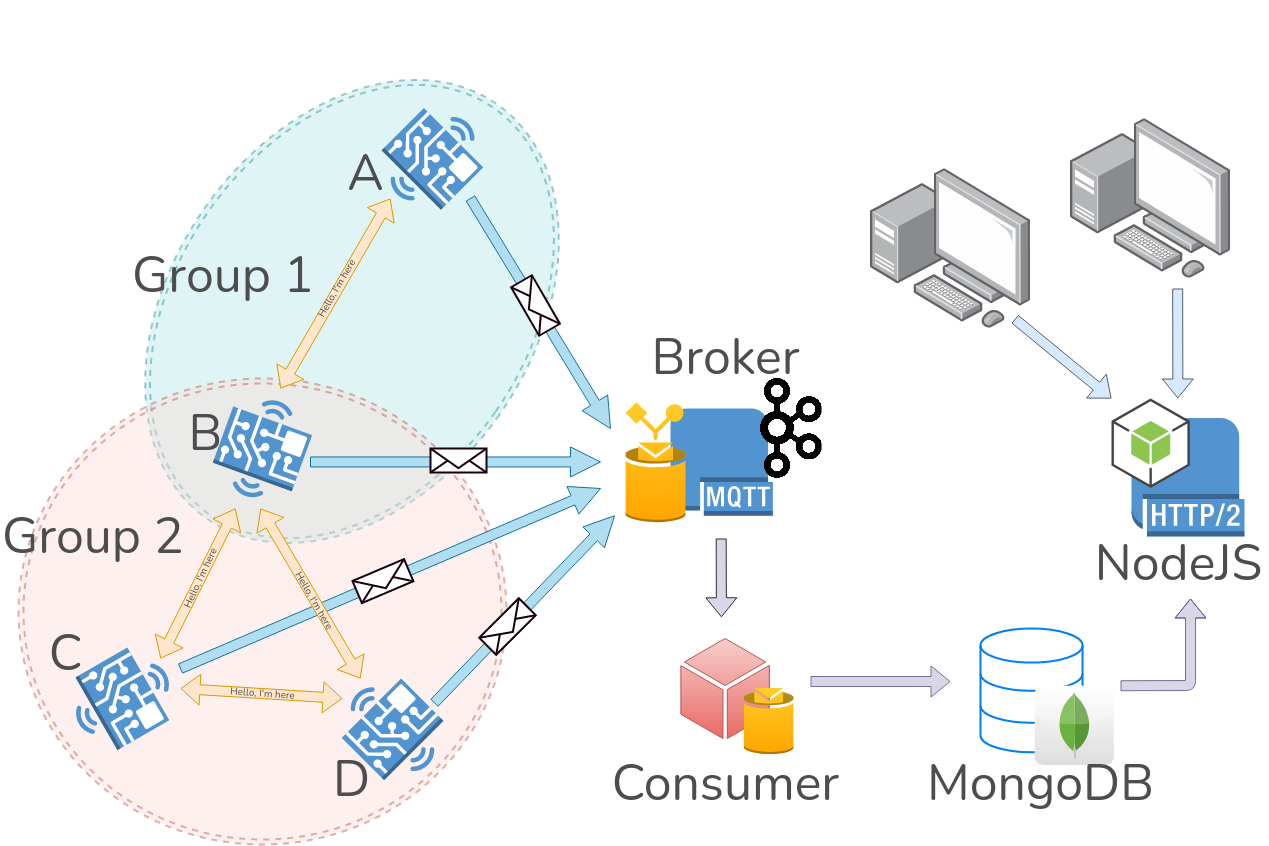
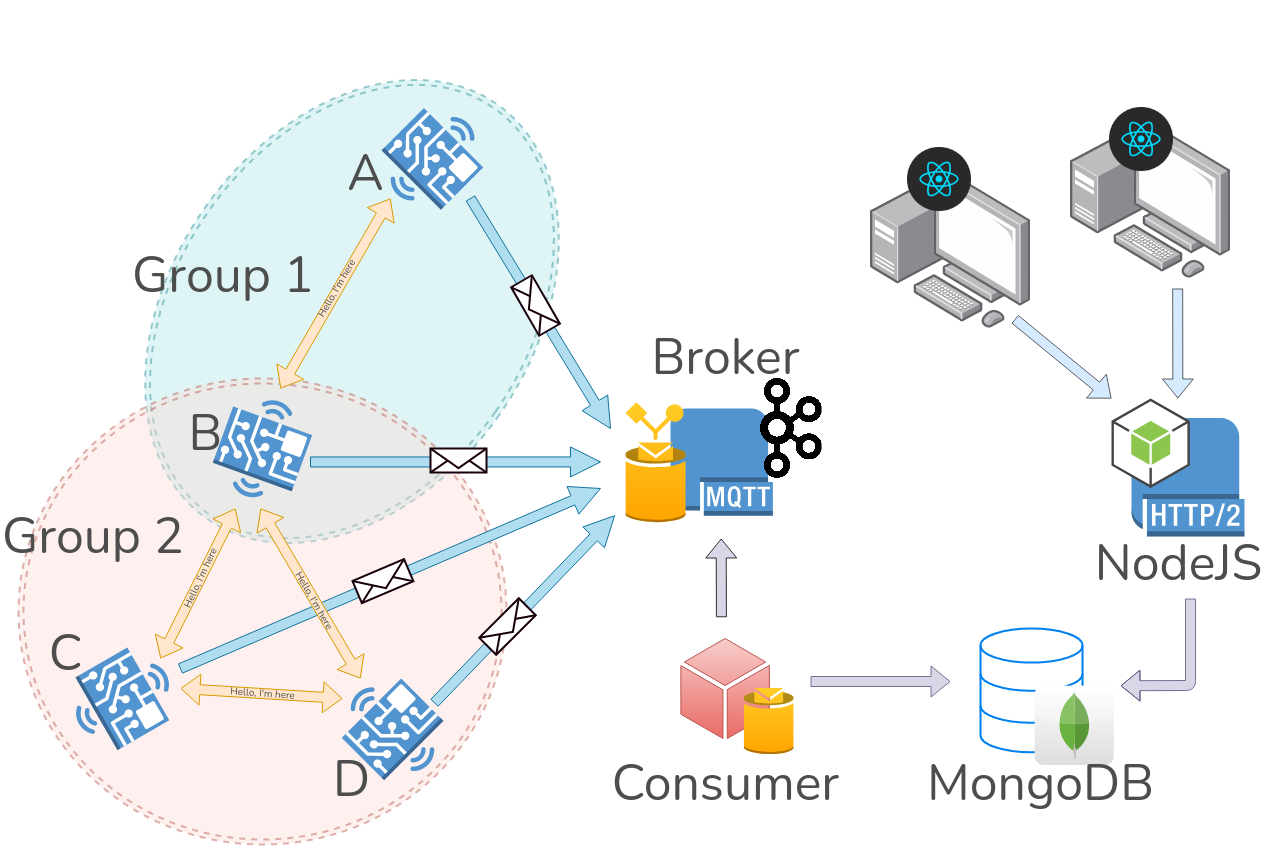
minor fixes in essay

diff --git a/essay/essay.tex b/essay/essay.tex
@@ -60,7 +60,7 @@
 
 	This brief paper describes \textit{CoronaZ}, a project for the Distributed Systems course at the \textit{University of Helsinki}.
 	
-	All the code of the project is publicly available on GitHub: \textit{\url{https://github.com/cipz/CoronaZ/}}.
+	All the code of the project is publicly available on GitHub repository\cite{coronaz_repo}.
 	
 	This project simulates a contact tracing application where each node represents a person (or a unique device attached to someone) that send signals to each other when in range and communicate the data collected to a server using the \textit{publish-subscribe} pattern.
 	The server, called \textit{broker}, can then be polled by a node called \textit{consumer} that will send the data to a database.
@@ -78,7 +78,8 @@
 		\item \textit{MQTT Broker}: we chose \textit{Apache Kafka} as broker for our project since it is one of the most used brokers in the market and it is has a large community that supports the project. Apache Kafka also handles well scaling and integration with other systems;
 		\item \textit{Containers}: we chose to use \textit{Docker} and \textit{docker-compose} given the easiness of constructing and spawning nodes. As explained in \ref{sec:architecture}, we have a \texttt{docker-compose.yml} that handles that base components such as the broker and the database;
 		\item \textit{Database}: we chose \textit{MongoDB} for the scalability and the ability to adapt to new data formats. Also because some group components had previous experience with it;
-		\item \textit{Front-end}: we chose \textit{NodeJS} since, like for the database, some group components had previous experience with it.
+		\item \textit{Back-end}: we chose \textit{NodeJS} since, like for the database, some group components had previous experience with it.
+		\item \textit{Front-end}: 
 	\end{itemize}
 
 	\subsection{System requirements}
@@ -86,7 +87,7 @@
 		The system requirements for this project are simple:
 		\begin{itemize}
 			\item \textit{Docker} and \textit{docker-compose};
-			\item Ubuntu or another Linux system for starting the project using the \textit{init-project.sh} bash script;
+			\item Ubuntu or another Linux system with \texttt{jq} installed for starting the project using the \textit{init-project.sh} bash script;
 		\end{itemize}
 
 \section{Architecture}\label{sec:architecture}
@@ -116,13 +117,18 @@
 		\hl{Here is an example of a message that is sent in broadcast from a node:}
 		\begin{verbatim}
 {  
-   "uuid":"ff0a1bda-34b9-11eb-b339-98fa9b2194f9",
+   "uuid":"ff0a1bda-34b9-11eb-b339 ... ",
    "position":[1, 5],
    "infected":false,
-   "timestamp":"2020-12-02 16:19:36.945151",
+   "timestamp":"2020-12-02 16:19 ... ",
    "alive":true
 }  
 		\end{verbatim}
+		
+		Each node has a unique \textit{UUID} that is generated in Python, using the \texttt{uuid}\cite{uuid}.
+		This is created via a combination of \texttt{MAC} address and the \texttt{IP} address of the machine the script runs on and the timestamp on when the process starts.
+
+		\hl{threads}
 
 	\subsection{MQTT broker}	
 	
@@ -160,9 +166,13 @@ tmp
 			\label{fig:database}
 		\end{figure}
 	
-	\subsection{Front-end}
+	\subsection{Back-end}
 	
-		The front-end of the project, programmed using NodeJS, shows the evolution of the system and the simulations.
+		For the back-end of the project, \textit{NodeJS} does \hl{...}
+	
+	\subsection{Front-end}
+
+		The front-end of the project, programmed using \textit{React}, shows the evolution of the system and the simulations.
 		It shows the movement of the nodes in the map, along with which one has been infected or not.
 		
 		\begin{figure}[htbp]
@@ -170,18 +180,31 @@ tmp
 			\caption{CoronaZ front-end.}
 			\label{fig:front-end}
 		\end{figure}
+	
+\section{Docker networking}
 
+	Since this project massively uses Docker containers, there is a docker network underneath it that connects all the components.
+	
 \section{Scalability and fault tolerance}
 
 	We have tested the scalability and the fault tolerance of the project in the following ways:
 	
 	\begin{itemize}
+		
 		\item \hl{\textit{unexpectedly shutting down the MongoDB database}:}
+		
 		\item \hl{\textit{unexpectedly shutting down the consumer}:}
+		
 		\item \hl{\textit{unexpectedly shutting down the front end}:}
+		
 		\item \hl{\textit{unexpectedly shutting down the broker}:}
-		\item \hl{\textit{adding more nodes}:}
+		
+		\item \textit{adding more nodes}: when a node is added it will start communicating with the other nodes already in the system and it will start sending messages to the broker.
+		
 	\end{itemize}
+
+	In general for the errors that can be felt in the front-end, such as the database not responding or the back-end server not responding, the user does not really need to know what exact component went down.
+	This is also for security reasons in case a \textit{malicious} user wants to find the vulnerabilities; without the specific logs it is harder for him to find the exact breaking point of the project.
 	
 \section{Simulation}\label{sec:simulation}
 
@@ -206,19 +229,29 @@ tmp
     }
 	\end{verbatim}
 	
+	These parameters stand for:
+	\begin{itemize}
+		\item ``\textit{field\_width}'': width of the map;
+		\item ``\textit{field\_height}'': height of the map;
+		\item ``\textit{scale\_factor}'':
+		\item ``\textit{zombie\_lifetime}'': lifetime in seconds of the zombies;
+		\item ``\textit{infection\_radius}'':
+		\item ``\textit{infection\_cooldown}'': ``\textit{cooldown}'' period in seconds in which the nodes stand in order
+	\end{itemize}
+	
 	\begin{figure}[htbp]
 		\centerline{\includegraphics[width=\linewidth]{img/sim_1.png}}
-		\caption{CoronaZ simulation at time X.}
+		\caption{\hl{CoronaZ simulation at time X.}}
 		\label{fig:sim_1}
 	\end{figure}
 	\begin{figure}[htbp]
 		\centerline{\includegraphics[width=\linewidth]{img/sim_2.png}}
-		\caption{CoronaZ simulation at time X+Y.}
+		\caption{\hl{CoronaZ simulation at time X+Y.}}
 		\label{fig:sim_2}
 	\end{figure}
 	\begin{figure}[htbp]
 		\centerline{\includegraphics[width=\linewidth]{img/sim_3.png}}
-		\caption{CoronaZ simulation at time X+Y+Z.}
+		\caption{\hl{CoronaZ simulation at time X+Y+Z.}}
 		\label{fig:sim_3}
 	\end{figure}
 
@@ -228,8 +261,22 @@ tmp
 	
 	There are various improvements that can be done to make CoronaZ a more interesting and stable simulator, we will tackle them based on the areas defined in \ref{sec:architecture}.
 	
+	\hl{IMPROVEMENTS}
+	
 \section{Conclusions}\label{sec:conclusions}
 
 	This project represents a simulation of a contact tracing application where each node that spawns in out network communicates its position to the others in range and will send the data collected to a central server with the \textit{publish-subscribe} pattern.
+
+\begin{thebibliography}{00}
+	
+	\bibitem{coronaz_repo}
+		\textit{CoronaZ repository:}\\
+		\url{https://github.com/cipz/CoronaZ/}
+	
+	\bibitem{uuid}
+		\textit{\texttt{uuid} — UUID objects according to RFC 4122:}\\
+		\url{https://docs.python.org/3.8/library/uuid.html}
+		
+\end{thebibliography}
 
 \end{document}
